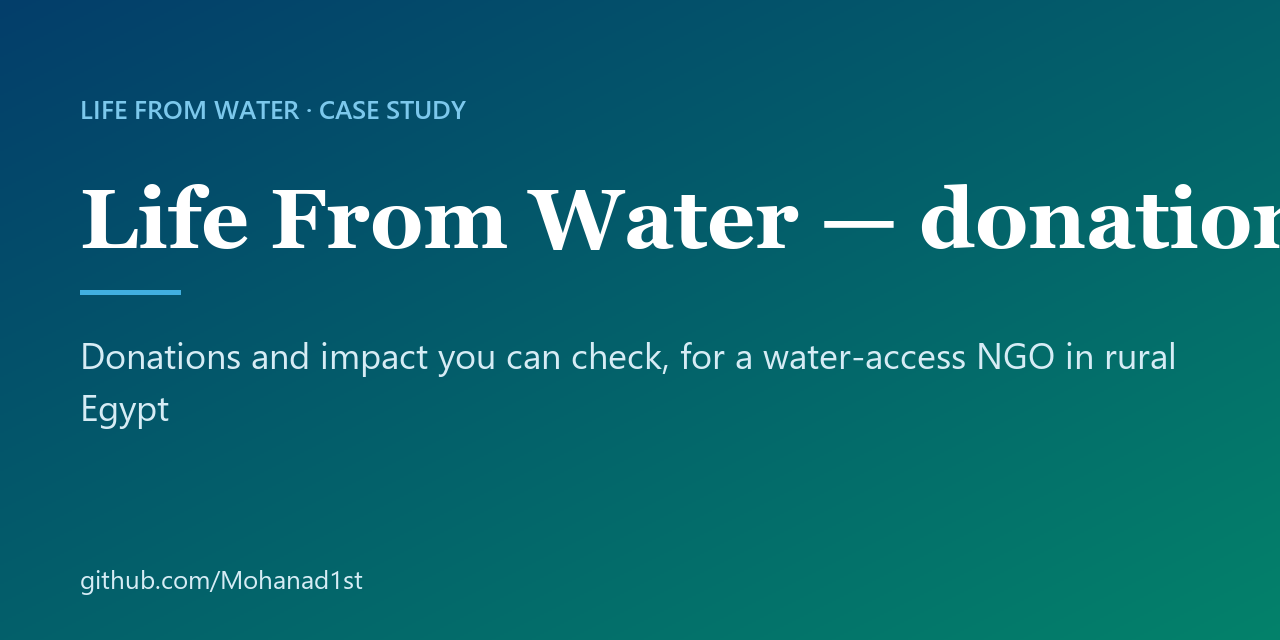
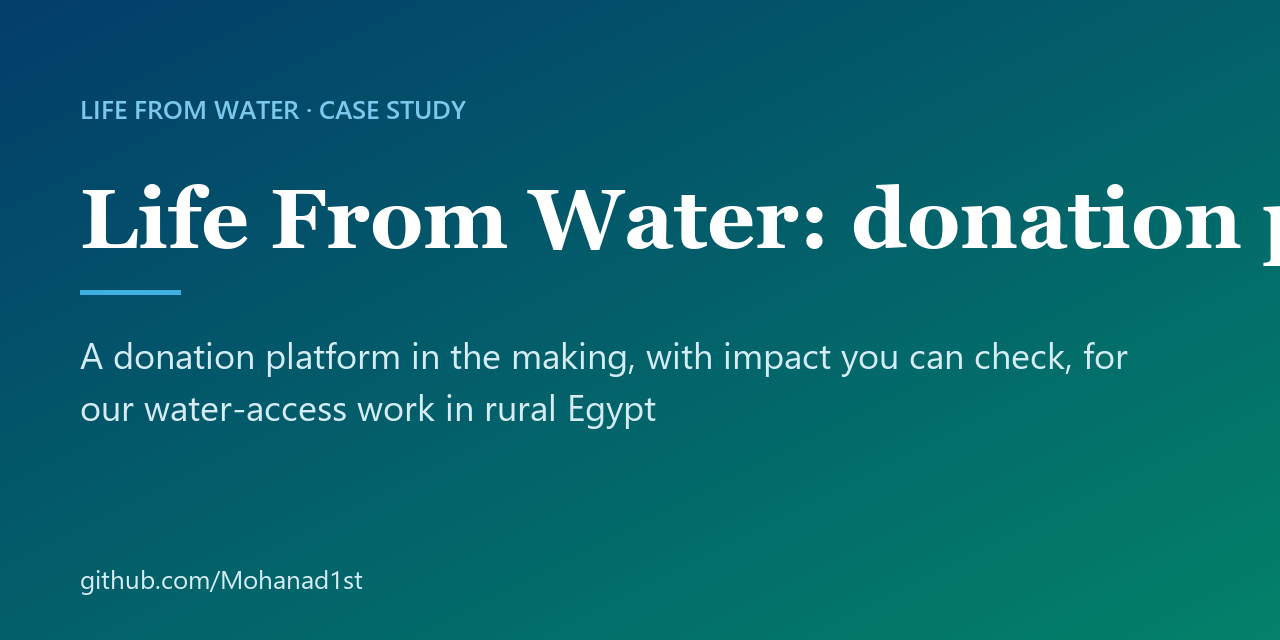
docs: rewrite case study in plain first-person voice
Every factual line checked against its source; overstated or unsourced lines removed or corrected.

Changed region(s): [[0.0625, 0.5312, 0.9375, 0.5938], [0.625, 0.2812, 1.0, 0.4375], [0.0625, 0.625, 0.5312, 0.6875]]

diff --git a/README.md b/README.md
@@ -1,27 +1,27 @@
-<p align="center"><img src="assets/banner.svg" alt="Life From Water — donation platform" width="100%"></p>
+<p align="center"><img src="assets/banner.svg" alt="Life From Water: donation platform" width="100%"></p>
 
-<p align="center"><b>Donations and impact you can check, for a water-access NGO in rural Egypt</b></p>
+<p align="center"><b>A donation platform in the making, with impact you can check, for our water-access work in rural Egypt</b></p>
 
 <p align="center" dir="rtl" lang="ar">منصة للتبرّع ومتابعة الأثر بشفافية — مؤسسة ومن الماء حياة</p>
 
-<p align="center"><b>Status:</b> Prototype live · donations switched on at launch &nbsp;·&nbsp; <b>Built by</b> <a href="https://github.com/Mohanad1st">Mohannad Hesham</a></p>
+<p align="center"><b>Status:</b> Prototype live · online donations not yet enabled &nbsp;·&nbsp; <b>Built by</b> <a href="https://github.com/Mohanad1st">Mohannad Hesham</a></p>
 
-> Case study only: the source is private because it is built to handle donor payments and personal data. Walkthrough on request.
+> This is a case study. The source is private because it is built to handle donor payments and personal data.
 
-## The problem
+## Why we built it
 
-Donors are asked to trust a PDF report. Life From Water connects households in rural Egypt to clean water, and every connection has a place and a year. This platform lets a donor give in a few steps with local payment methods, get a receipt automatically, and see on a public map where funded work actually happened.
+Donors are asked to trust a PDF report. We connect households in rural Egypt to clean water, and every funded site has a place and a year. This platform is built to let a donor give in a few steps with local payment methods, get a receipt automatically, and see on a public map where funded work happened.
 
 ## What it does
 
-- Arabic-first editorial pages for projects, programmes, partners, media and annual reports
-- A public impact map of funded sites, with years and beneficiary counts
-- One-time and recurring donations through Egyptian cards and wallets, with automatic receipts (switched on at launch)
-- Donor accounts to see past gifts and manage recurring ones (switched on at launch)
-- Memorial gifts with a dedication card
-- A staff console for publishing bilingual updates
+- Arabic-first pages for our projects, programmes, partners, media and annual reports.
+- A public impact map of funded sites, with years and beneficiary counts.
+- One-time and recurring donations through Egyptian cards and wallets, with automatic receipts (built, not yet enabled: it needs a payment contract and permit sign-off).
+- Donor accounts to see past gifts and manage recurring ones (built, not yet enabled).
+- Memorial gifts with a dedication card (not yet enabled).
+- A staff console for bilingual updates (not yet enabled).
 
-## See it
+## How it works
 
 **[Open the Life From Water donation prototype](https://lfw-mockup.vercel.app)**
 
@@ -31,27 +31,31 @@ Donors are asked to trust a PDF report. Life From Water connects households in r
 
 <sub>All screens show demo data or public pages only.</sub>
 
-## Built with
+## What it's built on
 
-Next.js · TypeScript · Tailwind CSS · PostgreSQL with maps · local payment gateway · transactional email · bot protection
+Next.js · TypeScript · Tailwind CSS · PostgreSQL with maps · a local payment gateway · transactional email · bot protection
 
-## Built responsibly
+## Safeguards
 
-- Row-level security on every application table; money and personal data can only be written by the server
-- A receipt can't be opened with its reference number alone
-- Bot protection and rate limits on donation and contact forms
-- Repeated security review rounds before launch, with fixes checked against the running system
-- No secrets in source control, checked across the full history
+- Row-level security on every application table. Money and personal data can only be written by the server.
+- A receipt can't be opened with its reference number alone.
+- Bot protection and rate limits on donation and contact forms.
+- Repeated security review rounds, with fixes checked against the running system.
+- No secrets in source control, checked across the full history.
 
-## What it deliberately doesn't do
+## What's not solved yet
+
+- Before launch: admin two-step login and an enforced content-security policy are still to do.
+
+## What it doesn't do
 
 - The public prototype runs with payments and accounts switched off, on purpose, until launch sign-off.
 
 ## More from Life From Water
 
 - [Ameen](https://github.com/Mohanad1st/ameen-showcase) — A finance desk you talk to, built to stop donation money being misfiled
-- [LFW HR System](https://github.com/Mohanad1st/lfw-hr-system-showcase) — Attendance, leave, overtime and approvals for a field NGO, in Arabic and English
-- [WaterEye](https://github.com/Mohanad1st/watereye-showcase) — Read an analogue water gauge from a phone photo, no smart meter needed
+- [LFW HR System](https://github.com/Mohanad1st/lfw-hr-system-showcase) — Attendance, leave, overtime and approvals for our field staff, in Arabic and English
+- [WaterEye](https://github.com/Mohanad1st/watereye-showcase) — Read an analogue pressure or flow gauge from a photo, with no smart meter
 - [Opportunity Studio](https://github.com/Mohanad1st/opportunity-studio-showcase) — An evidence-first pipeline for grants, fellowships and tenders
 
 ---
